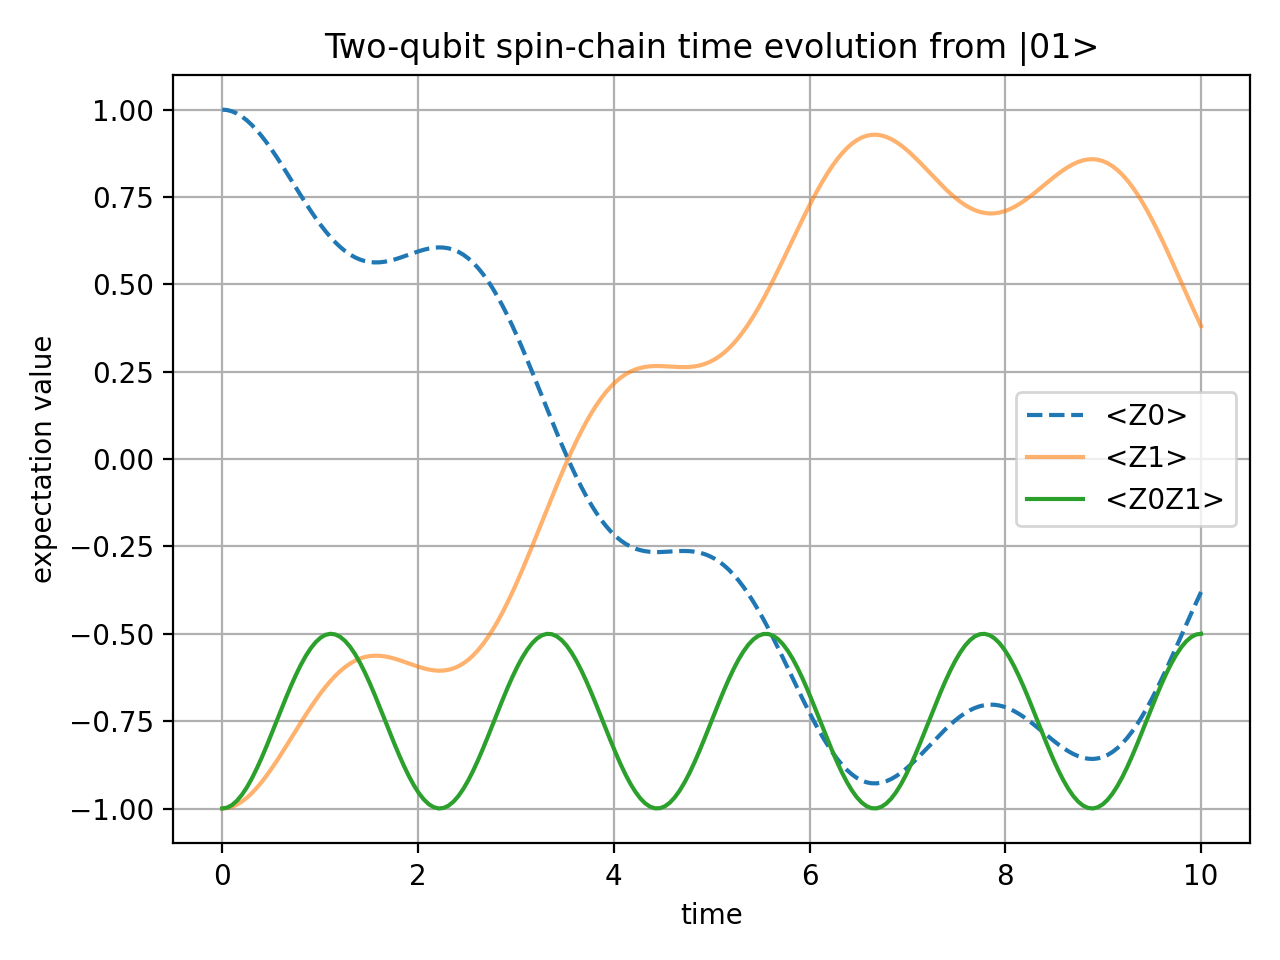
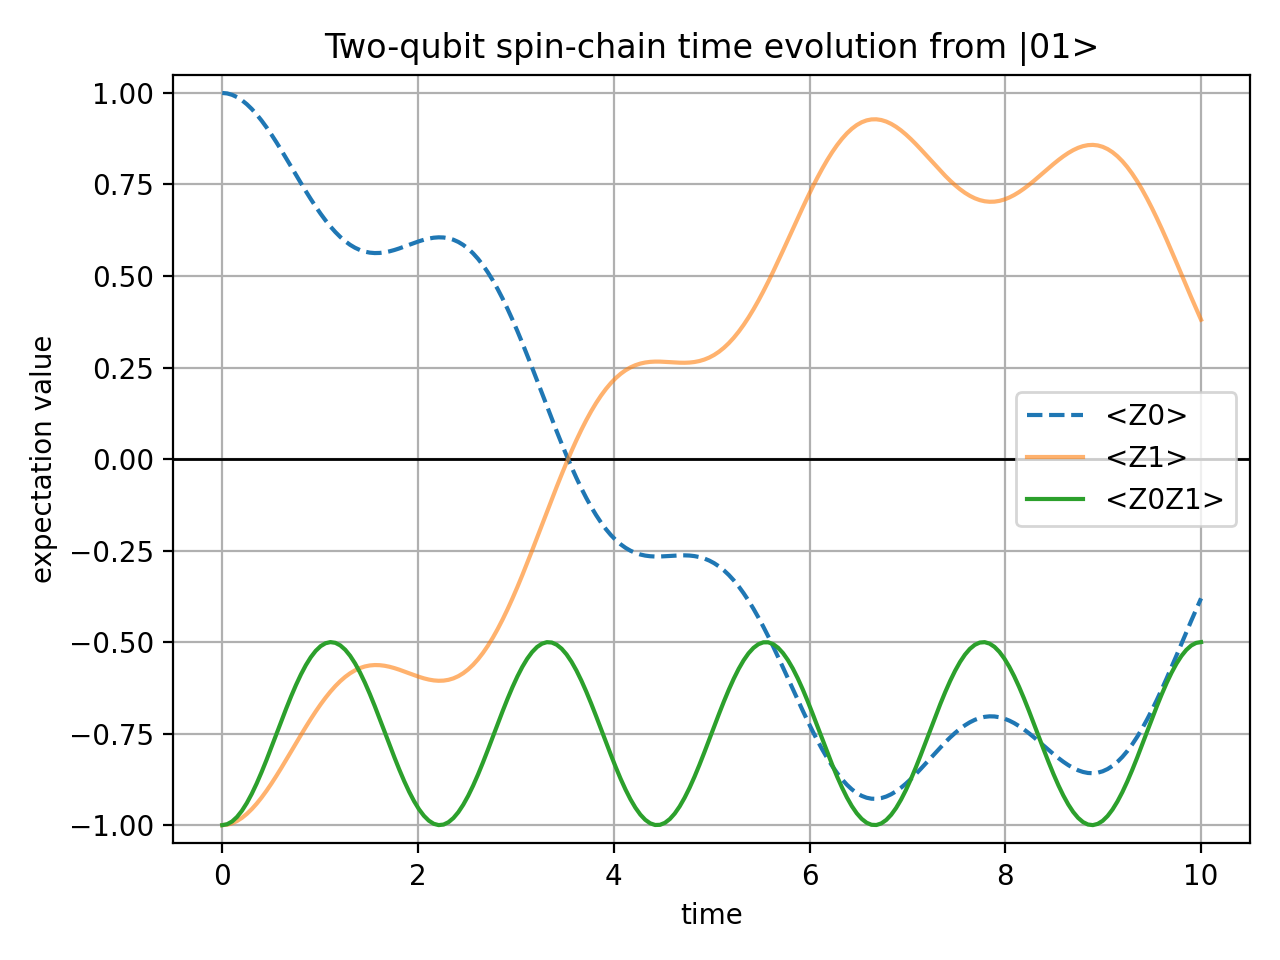
Scripts & files refinement

diff --git a/learning_notes.tex b/learning_notes.tex
@@ -236,7 +236,7 @@ The project calculates three observables:
 \end{itemize}
 These observables make the state evolution easier to interpret. Instead of only inspecting the full statevector, the plots show how measurable quantities change over time.
 
-The Qiskit circuit results agree with the internal direct matrix-exponential reference within the numerical tolerance. To avoid duplicating the displayed dynamics, only the NumPy plots are shown below.
+The Qiskit circuit results agree with the internal direct matrix-exponential reference within the numerical tolerance. To avoid showing the same curves twice, only the NumPy plots are shown below.
 
 \begin{figure}[htbp]
   \centering
@@ -583,6 +583,6 @@ Possible local extensions include:
 
 
 \section{Summary}
-This project shows a complete learning path from a simple Hamiltonian model to two working simulations and numerical validation. The NumPy implementation provides a separate exact calculation, while the Qiskit implementation reproduces the model's expectation value dynamics through statevector circuit simulation and is validated against an internal direct matrix-exponential reference.
+This project shows a complete learning path from a simple Hamiltonian model to two working simulations and numerical validation. The NumPy implementation provides a separate exact calculation, while the Qiskit implementation reproduces how the model's expectation values change over time through statevector circuit simulation and is validated against an internal direct matrix-exponential reference.
 
 \end{document}

diff --git a/scripts/two_qubit_numpy_exact.py b/scripts/two_qubit_numpy_exact.py
@@ -6,7 +6,6 @@ from pathlib import Path
 # Pauli matrices
 I = np.array([[1, 0], [0, 1]], dtype=complex)
 X = np.array([[0, 1], [1, 0]], dtype=complex)
-Y = np.array([[0, -1j], [1j, 0]], dtype=complex)
 Z = np.array([[1, 0], [0, -1]], dtype=complex)
 
 # Tensor product helper
@@ -114,6 +113,9 @@ for state_label, result in simulation_results.items():
     manager = getattr(fig.canvas, "manager", None)
     if manager is not None and hasattr(manager, "set_window_title"):
         manager.set_window_title(f"Initial state {state_label}, J={J}, h={h}")
+
+    ax.axhline(y=0, color="black", linewidth=1.0)
+    ax.set_ylim(-1.05, 1.05)
 
     ax.plot(times, result["z0"], label="<Z0>", linestyle="--")
     ax.plot(times, result["z1"], label="<Z1>", alpha=0.6)

diff --git a/scripts/two_qubit_qiskit_statevector.py b/scripts/two_qubit_qiskit_statevector.py
@@ -189,6 +189,9 @@ def save_figures(results):
         if manager is not None and hasattr(manager, "set_window_title"):
             manager.set_window_title(f"Qiskit circuit initial state {state_label}, J={J}, h={h}")
 
+        ax.axhline(y=0, color="black", linewidth=1.0)
+        ax.set_ylim(-1.05, 1.05)
+
         ax.plot(TIMES, result["z0"], label="<Z0>", linestyle="--")
         ax.plot(TIMES, result["z1"], label="<Z1>", alpha=0.6)
         ax.plot(TIMES, result["zz"], label="<Z0Z1>")

diff --git a/README.md b/README.md
@@ -4,9 +4,11 @@ Two-qubit Hamiltonian simulation using NumPy exact evolution and Qiskit statevec
 
 ## Project Goal
 
-This project simulates the time evolution of a two-qubit spin-chain model. It contains two completed implementations: a NumPy/SciPy exact statevector simulation and a Qiskit circuit-based statevector simulation.
+This project simulates the time evolution of a two-qubit spin-chain model. It contains two completed implementations: 
+a NumPy/SciPy exact statevector simulation and a Qiskit circuit-based statevector simulation.
 
-The completed project scope is limited to exact NumPy simulation and Qiskit statevector simulation. It does not include Qiskit Aer backends, noise models, shot-based sampling, or Trotter error analysis.
+The completed project scope is limited to exact NumPy simulation and Qiskit statevector simulation. 
+It does not include Qiskit Aer backends, noise models, shot-based sampling, or Trotter error analysis.
 
 The main goal is to build a small but complete quantum simulation workflow:
 
@@ -26,10 +28,10 @@ The main goal is to build a small but complete quantum simulation workflow:
 |   `-- two_qubit_qiskit_statevector.py # Qiskit circuit statevector simulation and validation
 |-- figures/
 |   |-- numpy_exact/                    # PNG plots generated by the NumPy script
-|   `-- qiskit_statevector/            # PNG plots generated by the Qiskit script
+|   `-- qiskit_statevector/             # PNG plots generated by the Qiskit script
 |-- requirements.txt                    # pip dependencies
 |-- environment.yml                     # Conda environment wrapper around requirements.txt
-|-- learning_notes.tex                   # Conceptual learning notes and model interpretation
+|-- learning_notes.tex                  # Conceptual learning notes and model interpretation
 `-- README.md                           # Main project description
 ```
 
@@ -60,32 +62,54 @@ The current observables are:
 - `<Z1>(t)`: expectation value of qubit 1 in the Z direction
 - `<Z0Z1>(t)`: two-qubit correlation observable
 
+### Qubit Labeling Convention
+
+This project writes state strings from left to right as `|q0 q1>`:
+qubit 0 is on the left and qubit 1 is on the right. 
+For example, `|01>` means q0 = 0 and q1 = 1.
+
+Generally, Qiskit uses the opposite ordering: in Qiskit labels and state strings,
+the right position corresponds to circuit qubit 0 and the left position corresponds to circuit qubit 1.
+Therefore:
+
+- project `q0` (left) = Qiskit circuit qubit 1
+- project `q1` (right) = Qiskit circuit qubit 0
+
+and the observables map to Qiskit Pauli labels as:
+
+- `<Z0>` → `"ZI"`
+- `<Z1>` → `"IZ"`
+- `<Z0Z1>` → `"ZZ"`
+
 ## Stage 1: NumPy Exact Simulation
 
-### Reason to Start with NumPy
+### Reason to Include a NumPy Version
 
-Although the project also implements the model using Qiskit, the NumPy simulation provides an exact reference result for the Qiskit simulation.
-
-In the NumPy stage, the two-qubit quantum state is represented directly as a four-dimensional statevector. The Hamiltonian is represented as a `4x4` matrix, and the time-evolution operator is computed directly as:
-
+The NumPy script provides a direct implementation of the project model. 
+It defines the Pauli matrices as NumPy arrays, constructs the two-qubit Hamiltonian with tensor products, 
+and calculates the standard matrix-based form of quantum time evolution
 ```text
 U(t) = exp(-iHt)
 ```
+at 200 equally spaced time points from `t = 0` to `t = 10`.
 
-This is the standard matrix-based form of quantum time evolution. For a two-qubit system, the matrix is small enough that this exact calculation is straightforward and reliable.
+After creating and activating the project environment, run:
+```bash
+python scripts/two_qubit_numpy_exact.py
+```
+The script simulates the four basis initial states, calculates `<Z0>`, `<Z1>`, and `<Z0Z1>`, and checks the initial values. 
+It saves four figures in `figures/numpy_exact/`, 
+which can be compared with figures produced by Qiskit script to check whether both implementations translate the model accurately
+and yield the same curve shapes, initial values, and symmetry properties.
 
-The Qiskit stage then implements the same Hamiltonian dynamics using a quantum-circuit representation. In this project, Qiskit is still run on a classical computer simulator, but it expresses the time evolution in terms of quantum gates and circuits rather than direct matrix exponentiation.
-
-Therefore, the NumPy result is used as the reference answer:
-
-- NumPy gives the exact matrix-exponential result.
-- Qiskit translates the same time evolution into a circuit-based simulation.
-
-In short, the NumPy stage answers what the Qiskit simulation should reproduce.
+Meanwhile, since the Numpy script uses only ordinary NumPy/SciPy matrices, 
+it provides another model definition without depending on Qiskit’s conventions and 
+serves as a standalone reproducible version independent of Qiskit.
 
 ### Construction
 
-The NumPy version directly constructs the Pauli matrices, tensor-product operators, Hamiltonian matrix, and time-evolution operator. It then evaluates the expectation values for four computational-basis initial states:
+The NumPy version directly constructs the Pauli matrices, tensor-product operators, Hamiltonian matrix, and time-evolution operator. 
+It then evaluates the expectation values for four computational-basis initial states:
 
 - `|00>`
 - `|01>`
@@ -93,13 +117,10 @@ The NumPy version directly constructs the Pauli matrices, tensor-product operato
 - `|11>`
 
 The current script is:
-
 ```text
 scripts/two_qubit_numpy_exact.py
 ```
-
 The output figures are saved in:
-
 ```text
 figures/numpy_exact
 ```
@@ -124,13 +145,17 @@ figures/numpy_exact
 
 ### Observations
 
-For the symmetric Hamiltonian `H = J Z0Z1 + h(X0 + X1)`, the dynamics is invariant under the exchange of qubit 0 and qubit 1. Therefore, the initial states `|01>` and `|10>` give symmetric expectation-value curves, with `<Z0>` and `<Z1>` interchanged.
+The Hamiltonian `H = J Z0Z1 + h(X0 + X1)` is unchanged when qubit 0 and qubit 1 are exchanged. 
+Therefore, the initial states `|01>` and `|10>` give symmetric expectation-value curves, with `<Z0>` and `<Z1>` interchanged.
 
-The observable `<Z0Z1>` measures the correlation between the two qubits. It starts from `+1` for the aligned states `|00>` and `|11>`, and from `-1` for the anti-aligned states `|01>` and `|10>`. During the time evolution, `<Z0Z1>` oscillates while preserving the qualitative distinction between initially aligned and anti-aligned configurations in this parameter setting.
+The observable `<Z0Z1>` measures the correlation between the two qubits. It starts from `+1` for the aligned states `|00>` and `|11>`, 
+and from `-1` for the anti-aligned states `|01>` and `|10>`. During the time evolution, `<Z0Z1>` oscillates while 
+preserving the qualitative distinction between initially aligned and anti-aligned configurations in this parameter setting.
 
 ## Stage 2: Qiskit Circuit Simulation
 
-The Qiskit version reproduces the same Hamiltonian dynamics using Qiskit circuits, `PauliEvolutionGate`, `SparsePauliOp`, and statevector simulation.
+The Qiskit version calculates the same exact time evolution using Qiskit circuits, `SparsePauliOp`, 
+and `PauliEvolutionGate` with `MatrixExponential` synthesis, followed by statevector simulation.
 
 The current script is:
 
@@ -144,7 +169,9 @@ The output figures are saved in:
 figures/qiskit_statevector
 ```
 
-This stage uses the same model, initial states, and observables as the NumPy exact simulation. The script also checks that the Qiskit circuit results match the direct matrix-exponential reference within numerical tolerance.
+This stage uses the same model, initial states, observables and time grid as the NumPy exact simulation. 
+The script also checks that the Qiskit expectation-value results match an internal direct matrix-exponential reference 
+constructed in the same Qiskit script to within numerical tolerance.
 
 ## Numerical Checks
 
@@ -153,10 +180,12 @@ Both scripts include numerical checks with a tolerance of `1e-10`.
 The NumPy script checks:
 
 - statevector norm preservation for each initial state
+- the expected values of `<Z0>`, `<Z1>`, and `<Z0Z1>` at `t = 0` for all four initial states
 - symmetry between `<Z0>` and `<Z1>` for the aligned initial states `|00>` and `|11>`
-- swap symmetry between the anti-aligned initial states `|01>` and `|10>`
+- swap symmetry of `<Z0>` and `<Z1>` between the anti-aligned initial states `|01>` and `|10>`
 
-The Qiskit script checks the same properties and also compares the Qiskit circuit statevector results against a direct matrix-exponential reference for `<Z0>`, `<Z1>`, and `<Z0Z1>` across all four initial states.
+The Qiskit script checks the same properties and also compares its expectation-value results against 
+an internal direct matrix-exponential reference for `<Z0>`, `<Z1>`, and `<Z0Z1>` across all four initial states.
 
 If a check fails, the script raises an assertion error with the maximum numerical error. A successful Qiskit run prints:
 
@@ -166,7 +195,9 @@ Qiskit circuit numerical checks passed.
 
 ## How to Run
 
-This project should be run in a project-specific Python environment. PyCharm may use a different interpreter from the `python` command in a normal terminal, so always check which Python is active before running the script.
+This project should be run in a project-specific Python environment. 
+PyCharm may use a different interpreter from the `python` command in a normal terminal, 
+so always check which Python is active before running the script.
 
 Recommended Python version:
 
@@ -239,7 +270,6 @@ python -c "import numpy, scipy, matplotlib, qiskit; print('environment ok')"
 ## Expected Outputs
 
 Running the NumPy script prints:
-
 ```text
 Numerical checks passed.
 Saved .../figures/numpy_exact/Initial_00_expvl.png
@@ -249,14 +279,12 @@ Saved .../figures/numpy_exact/Initial_11_expvl.png
 ```
 
 It generates:
-
 - `figures/numpy_exact/Initial_00_expvl.png`
 - `figures/numpy_exact/Initial_01_expvl.png`
 - `figures/numpy_exact/Initial_10_expvl.png`
 - `figures/numpy_exact/Initial_11_expvl.png`
 
 Running the Qiskit script prints:
-
 ```text
 Qiskit circuit numerical checks passed.
 Saved .../figures/qiskit_statevector/Initial_00_expvl.png
@@ -266,22 +294,26 @@ Saved .../figures/qiskit_statevector/Initial_11_expvl.png
 ```
 
 It generates:
-
 - `figures/qiskit_statevector/Initial_00_expvl.png`
 - `figures/qiskit_statevector/Initial_01_expvl.png`
 - `figures/qiskit_statevector/Initial_10_expvl.png`
 - `figures/qiskit_statevector/Initial_11_expvl.png`
 
+After saving the PNG files, both scripts display the plots when a graphical Matplotlib backend is available. 
+The scripts finish after the plot windows are closed. When a graphical backend is not available, 
+both scripts save the PNG files without displaying plot windows and then finish automatically.
+
 ## Requirements
 
 Project requirements:
-
 - `numpy`
 - `scipy`
 - `matplotlib`
 - `qiskit`
 
-The NumPy exact simulation uses `numpy`, `scipy`, and `matplotlib`. The Qiskit circuit simulation uses the core `qiskit` package and `Statevector` simulation from `qiskit.quantum_info`.
+The NumPy exact simulation uses `numpy`, `scipy`, and `matplotlib`. 
+The Qiskit circuit simulation uses `numpy` for numerical calculations, `scipy` for the internal matrix-exponential reference, 
+`matplotlib` for plotting, and the core `qiskit` package for circuit construction and statevector simulation.
 
 
 ## AI Assistance Disclosure
@@ -291,20 +323,25 @@ AI was used for the following items:
 - Constructing initial project structure and documentation framework
 - NumPy and Qiskit code generation and modification
 
-The author independently handled the conceptual learning, final documentation review and revision, Git repository setup, commit management, and upload operations.
+The author independently handled the conceptual learning, documentation review and revision, 
+Git repository setup, commit management, and upload operations.
 
-The author reviewed, tested, and edited the AI-assisted code and project structure, and takes responsibility for the final implementation, results, and repository content.
+The author reviewed, tested, and edited the AI-assisted code and project structure, 
+and takes responsibility for the final implementation, results, and repository content.
 
-For conceptual learning notes and model interpretation, see [learning_notes.tex](learning_notes.tex).
+For detailed learning notes and model interpretation, see [learning_notes.tex](learning_notes.tex).
 
 
 ## Completion Status
 
-NumPy simulation provides the exact reference result, and the Qiskit circuit simulation reproduces the same dynamics within numerical tolerance.
+The NumPy implementation provides a separate exact calculation of the model. 
+The Qiskit circuit simulation produces the model's time-evolution results and is validated within numerical tolerance 
+against an internal direct matrix-exponential reference constructed within the Qiskit script.
 
 ## Possible Extensions
 
-The current project is complete within its intended scope. Possible local extensions that are not included in this version are:
+The current project is complete within its intended scope. 
+Possible local extensions that are not included in this version are:
 
 - Trotter error analysis for comparing exact evolution with product-formula approximations.
 - Parameter sweeps over different `J`, `h`, and total evolution time.
